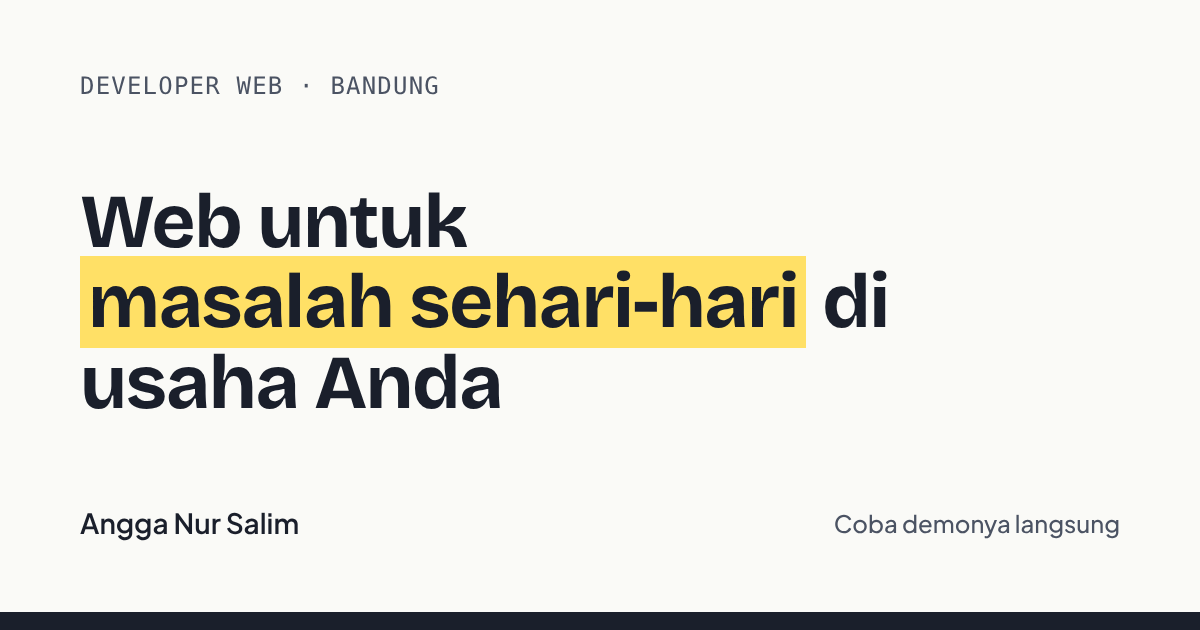
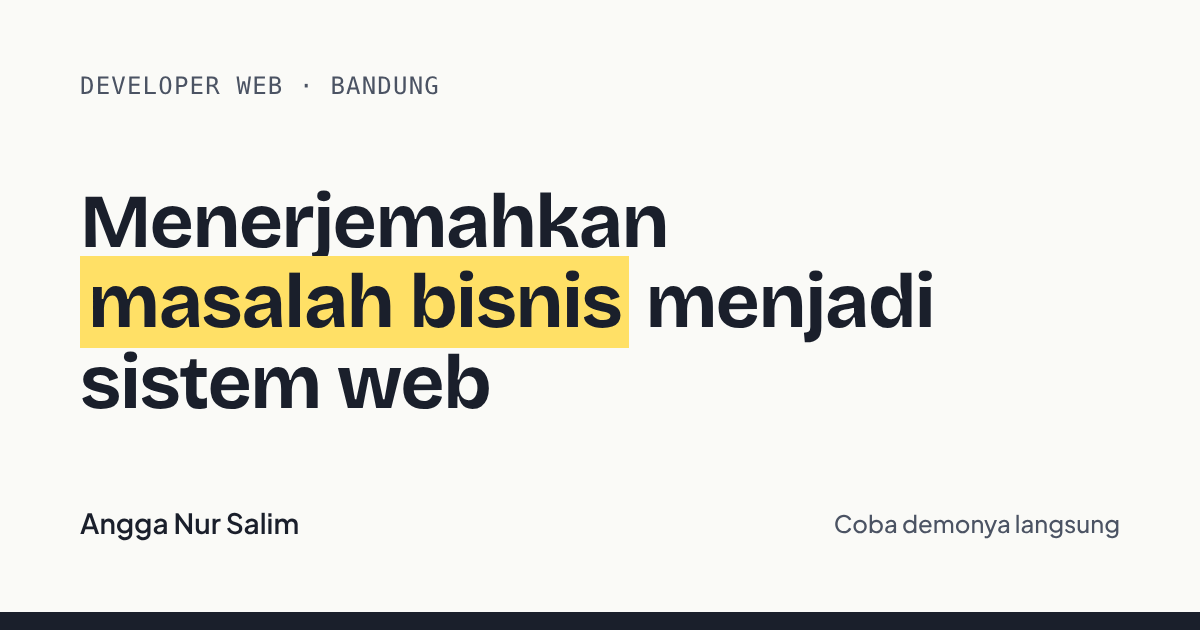
Ubah positioning: penerjemah masalah bisnis menjadi sistem web
- Hero, cara kerja, tentang, kontak, meta, dan gambar OG beranda tidak lagi
  mengarah ke satu bidang usaha
- Perbaiki judul bagian proyek yang masih 'Dua masalah' (sekarang 3 proyek)
- Persingkat nama proyek Hadirku agar nota tidak terpotong

Claude-Session: https://claude.ai/code/session_01F41bAJu6m5hj14o4bsJoYQ

Changed region(s): [[0.0617, 0.3016, 0.8017, 0.6635]]

diff --git a/src/halaman/Beranda.jsx b/src/halaman/Beranda.jsx
@@ -7,9 +7,9 @@ const PESAN_WA = 'Halo Angga, saya lihat web portofolio Anda.';
 const RIWAYAT_KERJA = ['Groomer pet shop', 'Teknisi poles mobil', 'Crew restoran', 'Pemilik warung'];
 
 const CARA_KERJA = [
-  ['Mulai dari masalah, bukan dari fitur', 'Saya tanya dulu apa yang sering salah di usaha Anda, baru menentukan apa yang perlu dibuat.'],
+  ['Mulai dari masalah, bukan dari fitur', 'Saya pelajari dulu alur kerja Anda dan di titik mana ia sering salah, baru menentukan apa yang perlu dibuat.'],
   ['Anda bisa mencoba sebelum memutuskan', 'Setiap aturan sudah punya pilihan bawaan yang bisa langsung dicoba di demo. Anda cukup bilang mana yang tidak cocok.'],
-  ['Diuji seperti dipakai sungguhan', 'Data berbulan-bulan, salah input, shift yang lupa ditutup, dan CV yang berantakan, bukan hanya kasus yang lancar.'],
+  ['Diuji seperti dipakai sungguhan', 'Data berbulan-bulan, salah input, proses yang terhenti di tengah jalan, dan data yang berantakan, bukan hanya kasus yang lancar.'],
 ];
 
 function Nota() {
@@ -68,10 +68,11 @@ export default function Beranda() {
         <section id="atas" className="wadah hero">
           <div className="hero-teks">
             <p className="label">DEVELOPER WEB · {profil.kota.toUpperCase()}</p>
-            <h1>Web untuk <Sorot>masalah sehari-hari</Sorot> di usaha Anda</h1>
+            <h1>Menerjemahkan <Sorot>masalah bisnis</Sorot> menjadi sistem web</h1>
             <p className="hero-lead">
-              Saya Angga, developer web di {profil.kota}. Saya membuat sistem yang mengurus pekerjaan yang sering salah
-              kalau dikerjakan manual: menghitung stok bahan, menyaring pelamar kerja, dan mencatat siapa mengerjakan apa.
+              Saya Angga, developer web di {profil.kota}. Saya mengubah aturan dan alur kerja di bisnis Anda (siapa boleh
+              melakukan apa, kapan, dan bagaimana menghitungnya) menjadi sistem web yang menjalankannya dengan konsisten
+              dan meninggalkan jejak yang bisa diperiksa.
             </p>
             <div className="baris-tombol">
               <a className="tombol tombol-isi" href="#proyek">Lihat proyek</a>
@@ -84,7 +85,7 @@ export default function Beranda() {
         <section id="proyek" className="bagian-putih">
           <div className="wadah bagian">
             <p className="label">PROYEK</p>
-            <h2>Dua masalah, dua web yang bisa langsung dicoba</h2>
+            <h2>Masalah nyata, sistem yang bisa langsung dicoba</h2>
             <div className="grid-kartu">
               {proyek.map((p) => <KartuProyek key={p.id} p={p} />)}
             </div>
@@ -110,17 +111,17 @@ export default function Beranda() {
             <img className="foto" src={profil.foto.src} alt={profil.foto.alt} width="672" height="840" loading="lazy" decoding="async" />
             <div className="tentang-teks">
               <p className="label">TENTANG SAYA</p>
-              <h2>Pernah di balik meja kasir, sekarang membuat kasirnya</h2>
+              <h2>Pernah menjalankan prosesnya, sekarang merancang sistemnya</h2>
               <p className="redup">
                 Saya {profil.nama}, developer web otodidak di {profil.kota}, lulusan SMK jurusan Teknik Bisnis Sepeda Motor (2021).
               </p>
               <p className="redup">
-                Sebelum membuat web, saya bekerja di lapangan, dan saya juga menjalankan warung. Dari situ saya tahu rasanya
-                menghitung stok di akhir shift, menjaga toko sambil melayani pelanggan, dan bekerja dengan sistem yang tidak membantu.
+                Sebelum membuat web, saya bekerja di lapangan dan menjalankan warung sendiri. Dari situ saya melihat langsung
+                jarak antara aturan di atas kertas dan yang benar-benar terjadi saat pekerjaan sedang ramai.
               </p>
               <p className="redup">
-                Proyek-proyek di sini lahir dari pengalaman itu. Saya bekerja dengan React dan JavaScript, dan merancang sistem
-                dari aturan bisnisnya dulu.
+                Itu yang saya bawa ke setiap proyek: memahami aturan bisnisnya dulu, lalu menerjemahkannya menjadi sistem.
+                Saya bekerja dengan React dan JavaScript.
               </p>
               <ul className="pil-daftar" aria-label="Pengalaman kerja">
                 {RIWAYAT_KERJA.map((r) => <li key={r}>{r}</li>)}
@@ -132,8 +133,8 @@ export default function Beranda() {
         <section id="kontak" className="pita-gelap">
           <div className="wadah kontak">
             <div className="kontak-teks">
-              <h2>Punya masalah serupa di usaha Anda?</h2>
-              <p>Ceritakan saja dulu, tidak harus sudah tahu mau dibuatkan apa.</p>
+              <h2>Ada proses di bisnis Anda yang masih sering salah?</h2>
+              <p>Ceritakan masalahnya dulu, tidak harus sudah tahu mau dibuatkan apa.</p>
             </div>
             <div className="kontak-aksi">
               <TombolWa pesan={PESAN_WA} varian="stabilo" />

diff --git a/src/data/meta.js b/src/data/meta.js
@@ -1,5 +1,5 @@
 // Teks pratinjau tautan untuk beranda. Proyek punya teksnya sendiri di proyek.json (og).
 export const META_BERANDA = {
-  judul: 'Angga Nur Salim — Web untuk usaha kecil',
-  deskripsi: 'Kasir yang menghitung stok bahan sendiri, sistem seleksi pelamar, dan absensi yang tidak bisa dititipkan. Coba demonya langsung.',
+  judul: 'Angga Nur Salim — Menerjemahkan masalah bisnis menjadi sistem web',
+  deskripsi: 'Developer web di Bandung. Contohnya: kasir yang menghitung stok sendiri, seleksi pelamar dengan aturan yang sama, dan absensi yang tidak bisa dititipkan.',
 };
